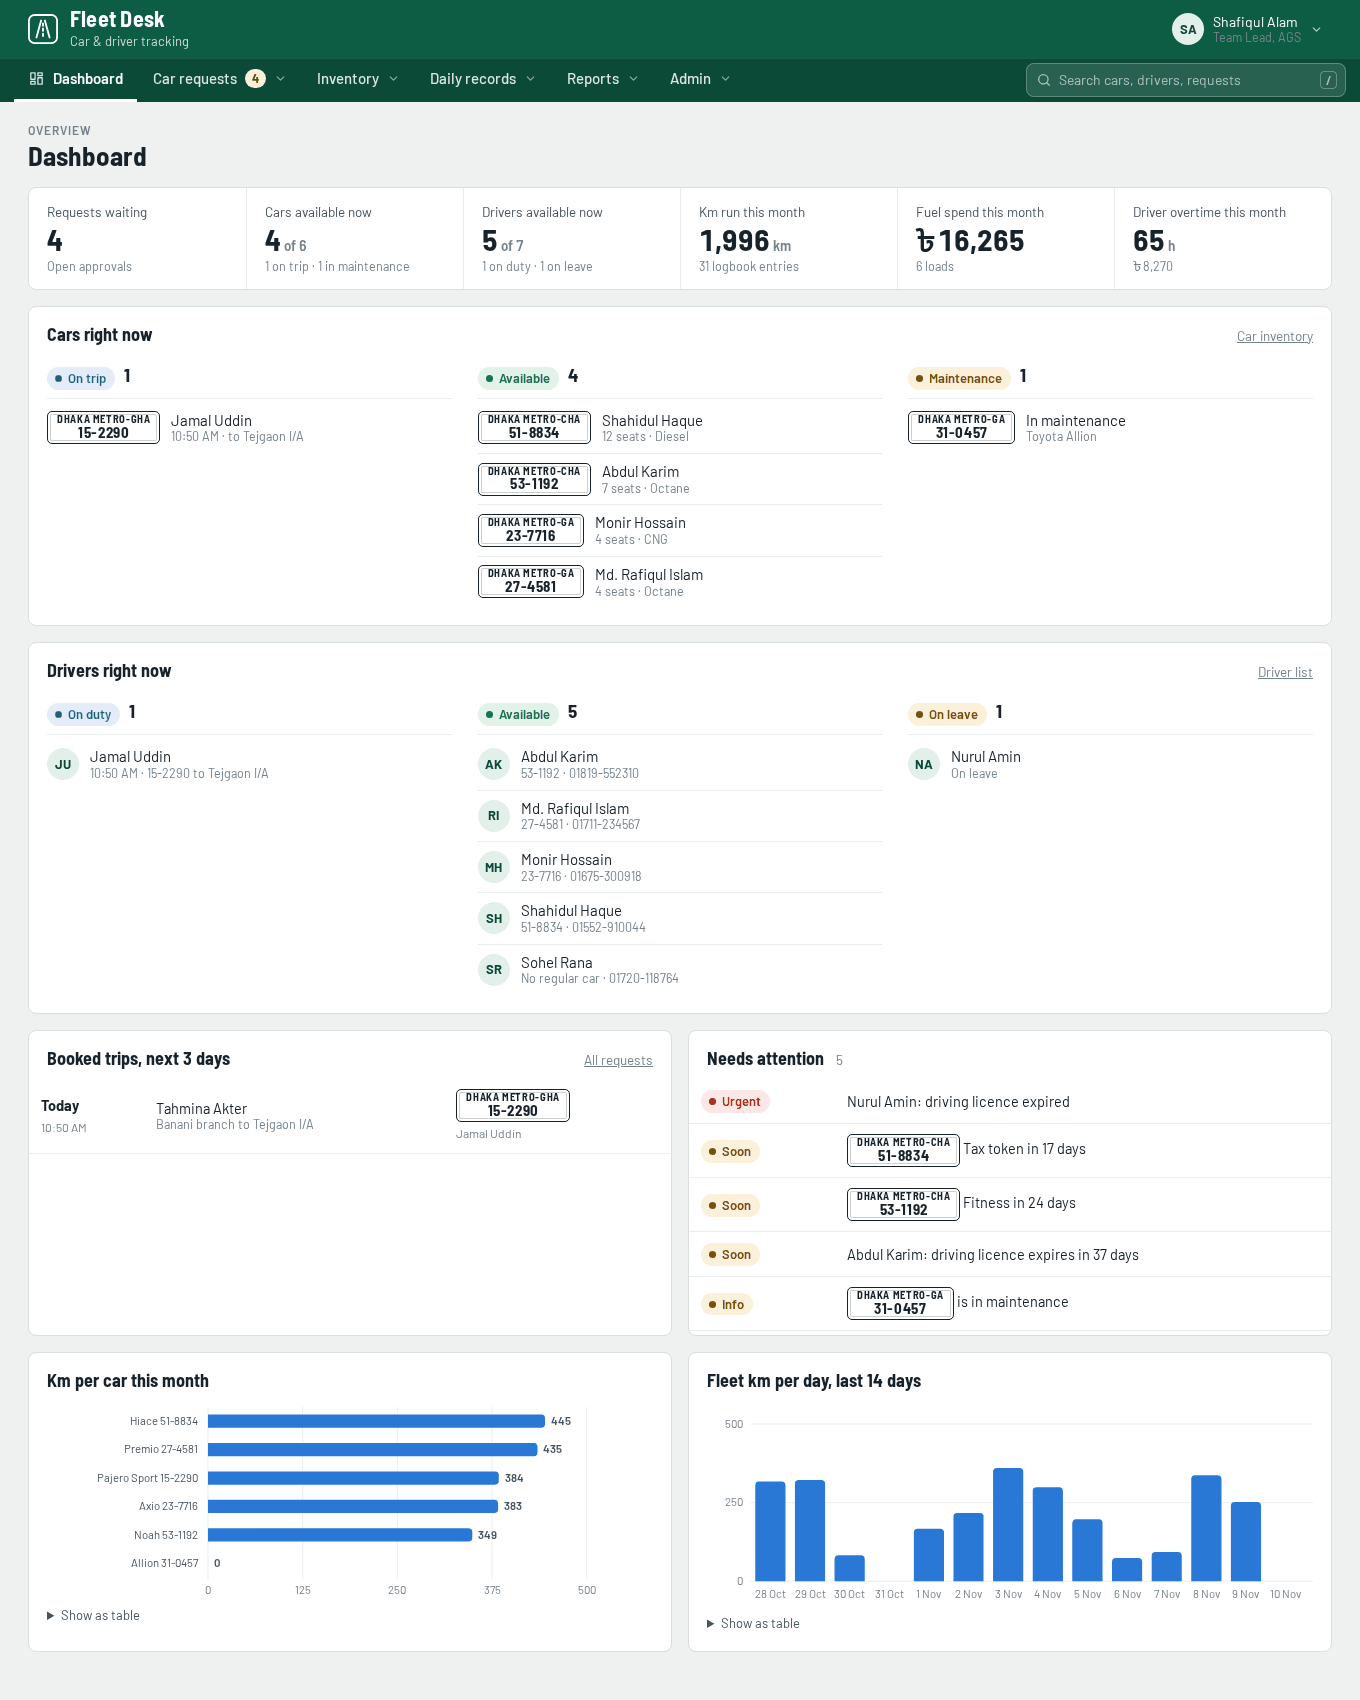
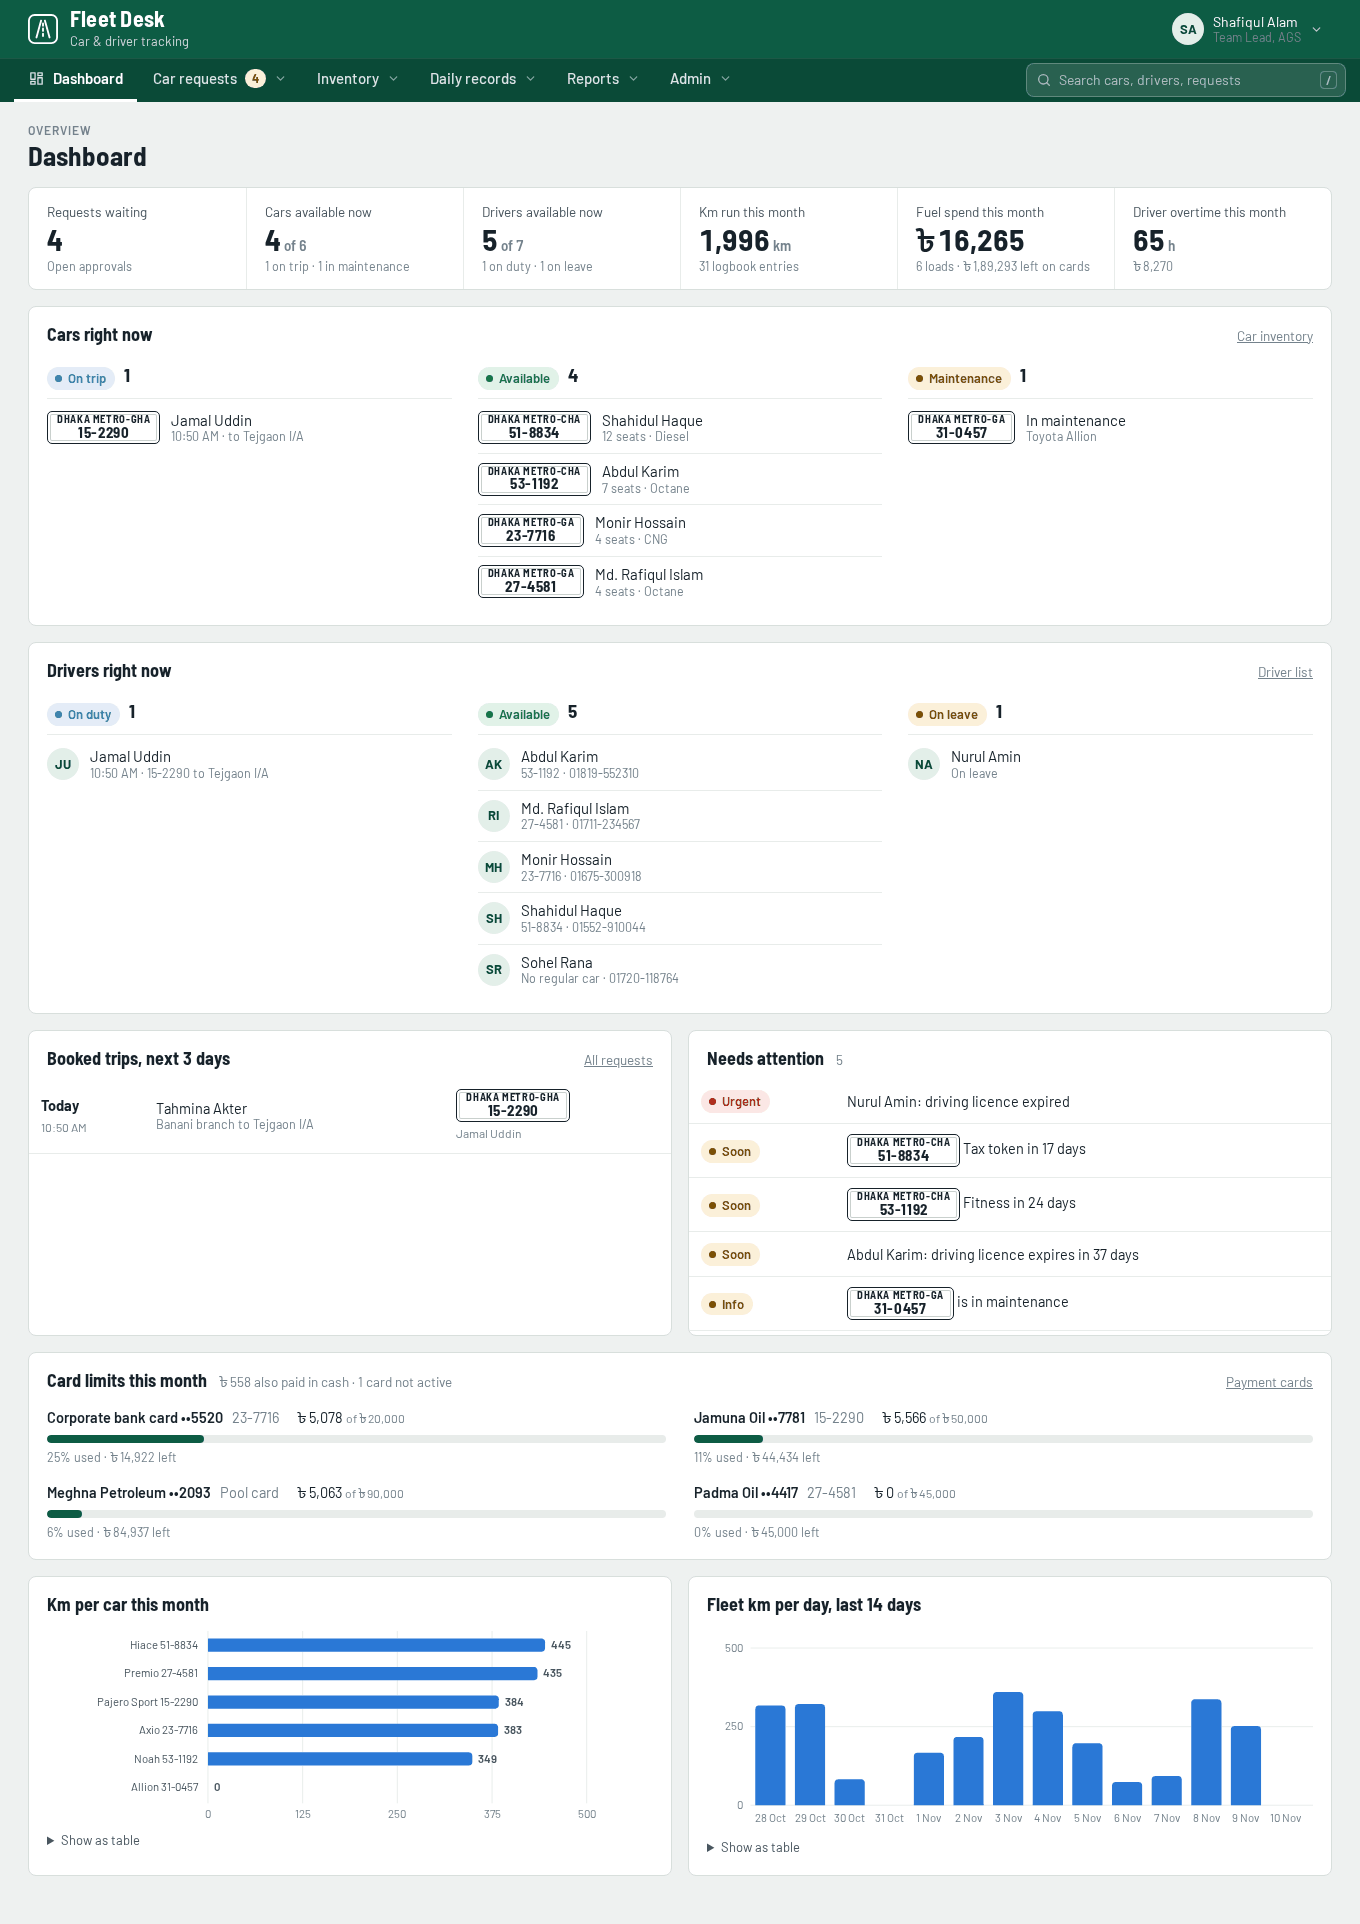
Dashboard: show spend against each card's monthly limit
A "Card limits this month" panel listing every active fuel card with what it
has spent, a bar that turns amber past 80% and red at the limit, and what is
left. It reuses the meter from the payment cards page and the same
thresholds, so the two screens cannot disagree. The panel head notes any
cash spend and any cards that are not active, and the fuel-spend tile now
carries the headroom left across all cards.

Both screens now report an overspend honestly — the bar still stops at full,
but the figure reads "111% used · ৳ 508 over" rather than a flat 100%.

diff --git a/assets/js/views/dashboard.js b/assets/js/views/dashboard.js
@@ -63,6 +63,23 @@ export async function render(el) {
         </div>`).join('') : `<p class="fleet-empty">${esc(empty)}</p>`}
     </div>`;
 
+  // Fuel card headroom for the month, worst first — the cards page uses the same
+  // thresholds and the same meter, so the two readings never disagree.
+  const spentOn = {};
+  for (const f of monthFuel) if (f.cardId) spentOn[f.cardId] = (spentOn[f.cardId] || 0) + Number(f.amount);
+  const cardLimits = data.cards
+    .filter((k) => k.status === 'Active')
+    .map((k) => {
+      const used = spentOn[k.id] || 0;
+      // The bar stops at full, but the caption tells the truth about an overspend.
+      const pct = k.monthlyLimit ? (used / k.monthlyLimit) * 100 : 0;
+      return { card: k, used, pct, left: (k.monthlyLimit || 0) - used };
+    })
+    .sort((a, b) => b.pct - a.pct);
+  const cashSpend = sum(monthFuel.filter((f) => !f.cardId), (f) => f.amount);
+  const inactiveCards = data.cards.length - cardLimits.length;
+  const cardHeadroom = sum(cardLimits, (x) => Math.max(0, x.left));
+
   // Things that need someone's attention
   const daysTo = (iso) => Math.round((fromISO(iso) - fromISO(T)) / 86400000);
   const alerts = [];
@@ -85,7 +102,7 @@ export async function render(el) {
       <a class="kpi" href="#cars" style="color:inherit;text-decoration:none"><div class="kpi-label">Cars available now</div><div class="kpi-value">${fleet.free.length}<small>of ${inService}</small></div><div class="kpi-note">${fleet.out.length} on trip · ${fleet.off.length} in maintenance</div></a>
       <a class="kpi" href="#drivers" style="color:inherit;text-decoration:none"><div class="kpi-label">Drivers available now</div><div class="kpi-value">${crew.free.length}<small>of ${onRoster}</small></div><div class="kpi-note">${crew.out.length} on duty · ${crew.off.length} on leave</div></a>
       <div class="kpi"><div class="kpi-label">Km run this month</div><div class="kpi-value">${num(sum(monthTrips, tripKm))}<small>km</small></div><div class="kpi-note">${monthTrips.length} logbook entries</div></div>
-      <div class="kpi"><div class="kpi-label">Fuel spend this month</div><div class="kpi-value">${bdt(sum(monthFuel, (f) => f.amount))}</div><div class="kpi-note">${monthFuel.length} loads</div></div>
+      <a class="kpi" href="#cards" style="color:inherit;text-decoration:none"><div class="kpi-label">Fuel spend this month</div><div class="kpi-value">${bdt(sum(monthFuel, (f) => f.amount))}</div><div class="kpi-note">${monthFuel.length} loads · ${bdt(cardHeadroom)} left on cards</div></a>
       <div class="kpi"><div class="kpi-label">Driver overtime this month</div><div class="kpi-value">${num(sum(ot, (x) => x.otMin) / 60)}<small>h</small></div><div class="kpi-note">${bdt(sum(ot, (x) => x.amount))}</div></div>
     </div>
 
@@ -130,6 +147,28 @@ export async function render(el) {
         </div>
       </section>
     </div>
+
+    <section class="panel mt">
+      <div class="panel-head">
+        <h2>Card limits this month</h2>
+        <span class="muted">${[cashSpend ? `${bdt(cashSpend)} also paid in cash` : '', inactiveCards ? `${inactiveCards} card${inactiveCards === 1 ? '' : 's'} not active` : ''].filter(Boolean).join(' · ')}</span>
+        <span class="spacer"></span><a href="#cards" class="muted">Payment cards</a>
+      </div>
+      <div class="panel-body">
+        ${cardLimits.length ? `<div class="grid grid-2 card-limits">${cardLimits.map(({ card, used, pct, left }) => `
+          <div class="card-limit">
+            <div class="card-limit-head">
+              <b>${esc(card.provider)} ••${esc(card.last4)}</b>
+              <span class="muted">${card.carId ? esc(c[card.carId]?.regNo.slice(-7) || '') : 'Pool card'}</span>
+              <span class="spacer"></span>
+              <span>${bdt(used)} <small class="muted">of ${bdt(card.monthlyLimit)}</small></span>
+            </div>
+            <div class="meter ${pct >= 100 ? 'bad' : pct >= 80 ? 'warn' : ''}"><span style="width:${Math.min(100, pct)}%"></span></div>
+            <small class="muted">${Math.round(pct)}% used${card.monthlyLimit ? ` · ${left >= 0 ? `${bdt(left)} left` : `${bdt(-left)} over`}` : ' · no limit set'}</small>
+          </div>`).join('')}</div>`
+          : '<div class="empty">No active payment cards.</div>'}
+      </div>
+    </section>
 
     <div class="grid grid-2 mt">
       <section class="panel"><div class="panel-head"><h2>Km per car this month</h2></div><div class="panel-body" id="c1"></div></section>

diff --git a/assets/js/views/cards.js b/assets/js/views/cards.js
@@ -43,8 +43,9 @@ export async function render(el) {
         { key: 'loads', label: 'Loads this month', num: true, render: (k) => used[k.id]?.n || 0, sort: (k) => used[k.id]?.n || 0 },
         { key: 'used', label: 'Spent this month', num: true, render: (k) => bdt(used[k.id]?.amt || 0), sort: (k) => used[k.id]?.amt || 0 },
         { key: 'limit', label: 'Of monthly limit', sortable: false, render: (k) => {
-          const pct = k.monthlyLimit ? Math.min(100, ((used[k.id]?.amt || 0) / k.monthlyLimit) * 100) : 0;
-          return `<div title="${Math.round(pct)}% of ${bdt(k.monthlyLimit)}"><div class="meter ${pct >= 100 ? 'bad' : pct >= 80 ? 'warn' : ''}"><span style="width:${pct}%"></span></div><small class="muted">${Math.round(pct)}% of ${bdt(k.monthlyLimit)}</small></div>`;
+          // Unclamped for the figure, clamped for the bar: an overspend should still read as one.
+          const pct = k.monthlyLimit ? ((used[k.id]?.amt || 0) / k.monthlyLimit) * 100 : 0;
+          return `<div title="${Math.round(pct)}% of ${bdt(k.monthlyLimit)}"><div class="meter ${pct >= 100 ? 'bad' : pct >= 80 ? 'warn' : ''}"><span style="width:${Math.min(100, pct)}%"></span></div><small class="muted">${Math.round(pct)}% of ${bdt(k.monthlyLimit)}</small></div>`;
         } },
         { key: 'expiry', label: 'Expires', render: (k) => { const s = expiryState(k.expiry); return s ? pill(fmtMonth(k.expiry), s) : esc(fmtMonth(k.expiry)); } },
         { key: 'status', label: 'Status', render: (k) => pill(k.status) },

diff --git a/assets/css/app.css b/assets/css/app.css
@@ -415,6 +415,16 @@ dl.facts dd { margin: 0; font-weight: 500; }
 .fleet-car + .fleet-car { border-top: 1px solid var(--line-soft); }
 .fleet-empty { margin: 10px 0 0; color: var(--ink-3); font-size: 13.5px; }
 
+/* Dashboard: spend against each card's monthly limit. */
+.card-limits { gap: 16px 28px; }
+.card-limit-head { display: flex; align-items: baseline; gap: 9px; margin-bottom: 7px; font-size: 14.5px; }
+.card-limit-head b { font-weight: 600; }
+.card-limit-head small { font-weight: 400; }
+.card-limit .meter { min-width: 0; }
+/* The caption under the bar only — not the "of ৳ x" inside the heading. */
+.card-limit > small { display: block; margin-top: 5px; font-size: 12.5px; }
+.card-limit-head > span:last-child { white-space: nowrap; }
+
 /* Person cell: avatar beside name and email. */
 .who-row { display: flex; align-items: center; gap: 10px; }
 .who-row .avatar { width: 30px; height: 30px; font-size: 12px; flex: none; }

diff --git a/README.md b/README.md
@@ -9,7 +9,7 @@ mail relay.
 Nothing is loaded from the internet at runtime — the fonts are bundled — so it works
 on an isolated network.
 
-![The Fleet Desk dashboard: cars and drivers available now, panels showing which cars are on trip, available or in maintenance and which drivers are on duty, free or on leave, trips booked for the next three days, papers and licences about to expire, and km charts](docs/screenshots/dashboard.png)
+![The Fleet Desk dashboard: cars and drivers available now, panels showing which cars are on trip, available or in maintenance and which drivers are on duty, free or on leave, trips booked for the next three days, papers and licences about to expire, spend against each fuel card's monthly limit, and km charts](docs/screenshots/dashboard.png)
 
 ## What's in it
 
@@ -18,7 +18,7 @@ on an isolated network.
 | Request a car | Everyone | Requisition form: name, designation, email, date, start point, destination, starting time, reason |
 | My requests | Everyone | The user's requests and their status, the confirmation email they received, and cancelling while pending |
 | Approvals | AGS staff (view), team lead (act) | Review a request, pick car and driver (clashes within 3 hours are flagged), preview and send the confirmation email, or reject with a reason |
-| Dashboard | AGS | Which cars are on trip, available or in maintenance and which drivers are on duty, free or on leave right now; waiting requests; trips booked for the next 3 days; expiring papers and licences; card limits; km charts |
+| Dashboard | AGS | Which cars are on trip, available or in maintenance and which drivers are on duty, free or on leave right now; waiting requests; trips booked for the next 3 days; expiring papers and licences; spend against each card's monthly limit; km charts |
 | Cars | AGS | Car inventory, regular driver, fuel card, papers expiry (fitness, tax token, insurance) |
 | Drivers | AGS | Driver inventory, licence expiry, OT rate, this month's duty days and overtime |
 | Payment cards | AGS | Card inventory (last 4 digits only), spending against the monthly limit, and the full fuel-load history per card |
